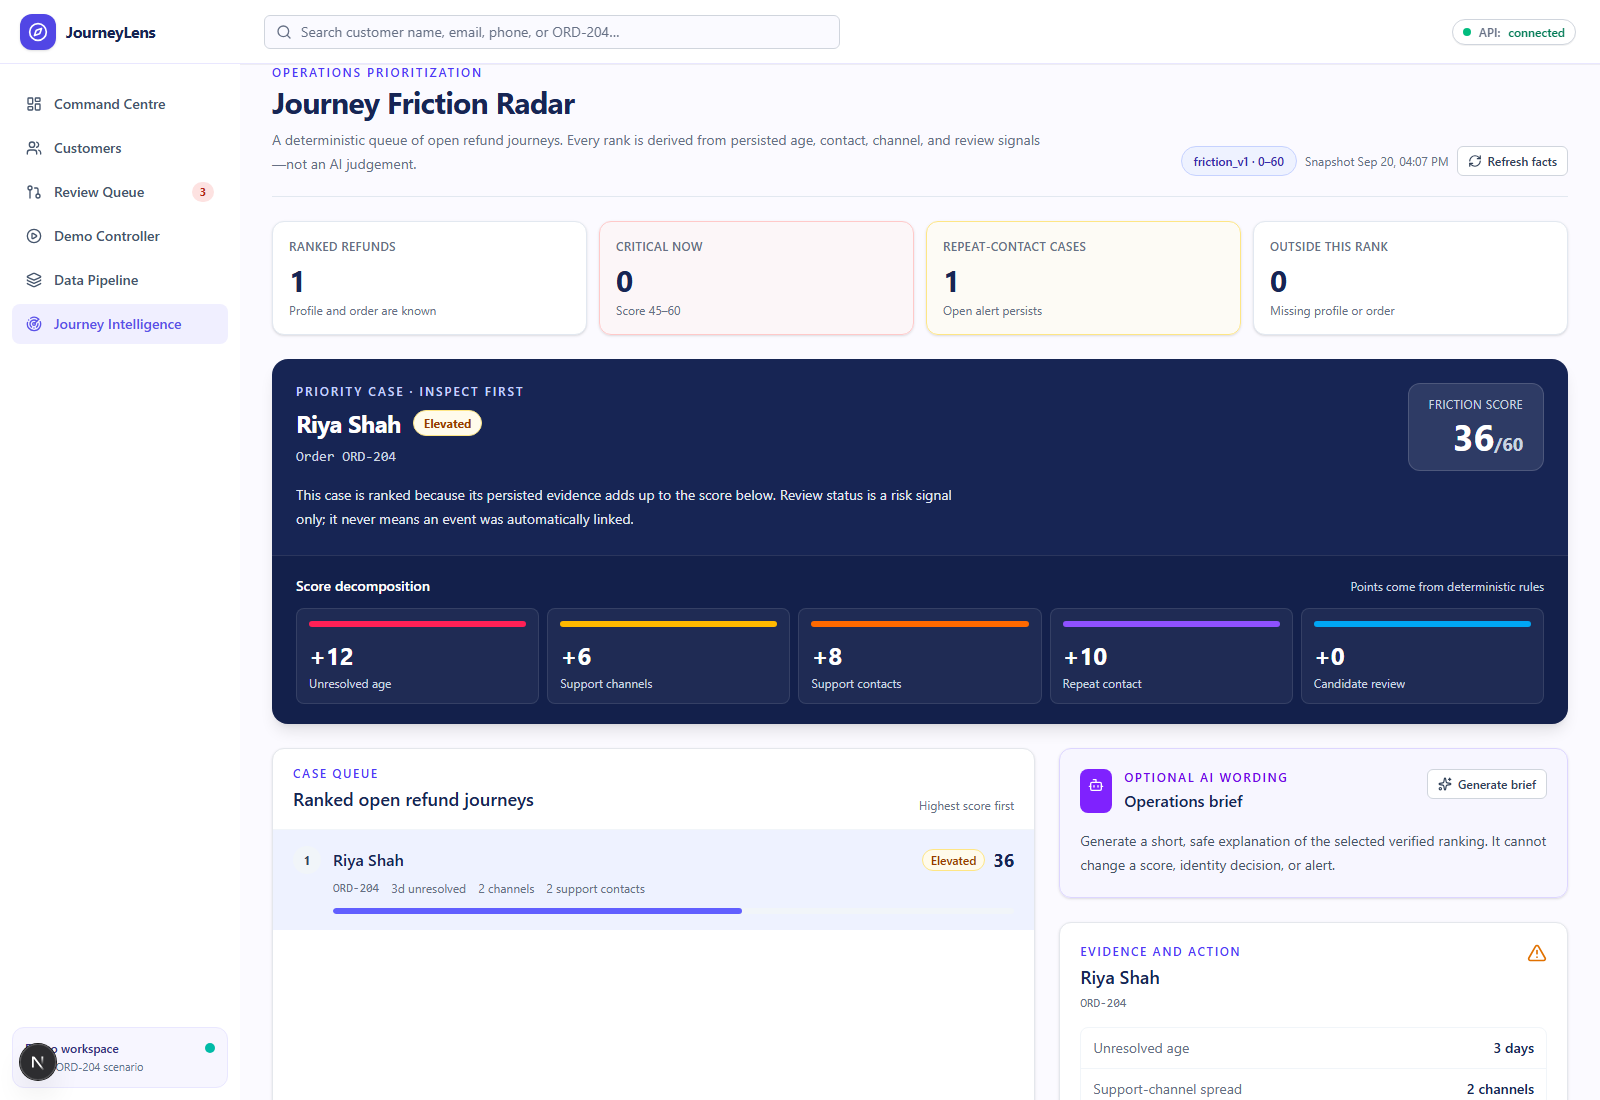
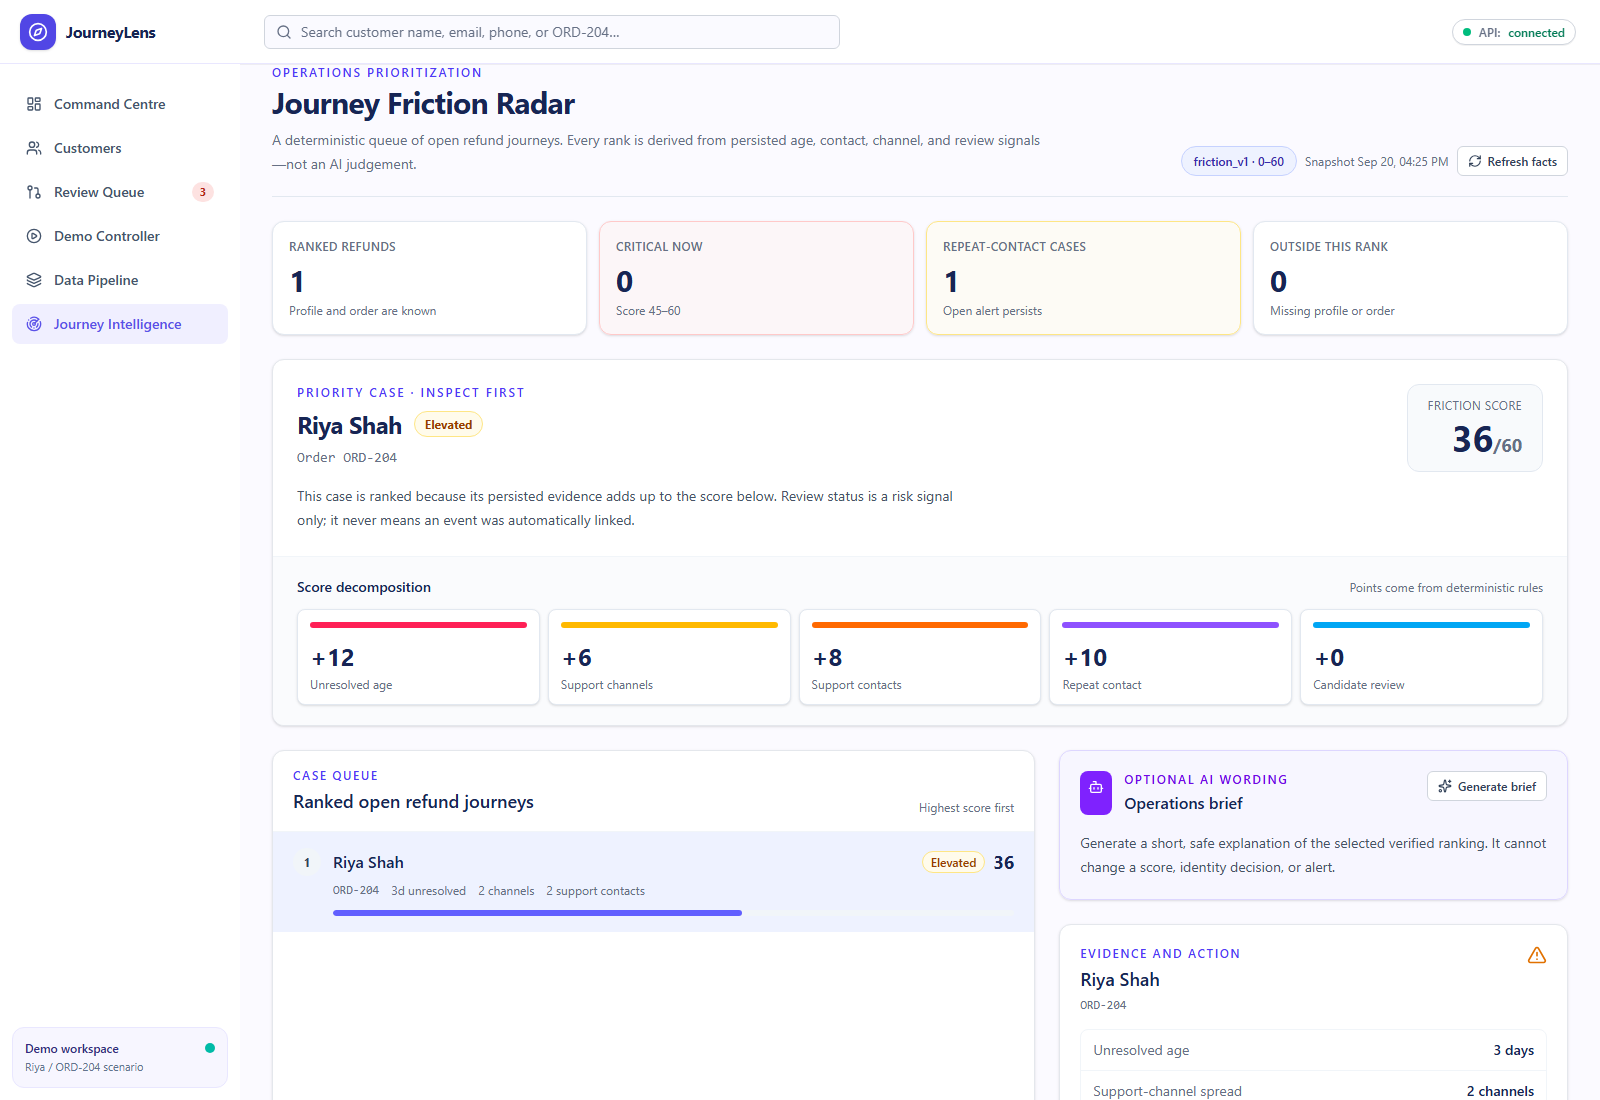
fix(ui): use light priority dossier

diff --git a/frontend/components/journey-intelligence/OperationsDossierView.tsx b/frontend/components/journey-intelligence/OperationsDossierView.tsx
@@ -262,10 +262,13 @@ function Stat({
 
 function PriorityDossier({ journey, scoreMax }: { journey: FrictionJourney; scoreMax: number }) {
   return (
-    <section className="overflow-hidden rounded-2xl bg-[#172554] text-white shadow-lg" aria-label="Priority case dossier">
+    <section
+      className="overflow-hidden rounded-xl border border-[#E4E7EC] bg-white text-[#172554] shadow-sm"
+      aria-label="Priority case dossier"
+    >
       <div className="grid gap-6 px-6 py-6 lg:grid-cols-[1fr_auto] lg:items-start">
         <div>
-          <p className="text-xs font-semibold uppercase tracking-[0.16em] text-indigo-200">
+          <p className="text-xs font-semibold uppercase tracking-[0.16em] text-indigo-600">
             Priority case · inspect first
           </p>
           <div className="mt-2 flex flex-wrap items-center gap-3">
@@ -274,30 +277,30 @@ function PriorityDossier({ journey, scoreMax }: { journey: FrictionJourney; scor
               {journey.band}
             </span>
           </div>
-          <p className="mt-2 font-mono text-sm text-slate-300">Order {journey.order_id}</p>
-          <p className="mt-4 max-w-2xl text-sm leading-6 text-slate-200">
+          <p className="mt-2 font-mono text-sm text-[#667085]">Order {journey.order_id}</p>
+          <p className="mt-4 max-w-2xl text-sm leading-6 text-[#475467]">
             This case is ranked because its persisted evidence adds up to the score below. Review
             status is a risk signal only; it never means an event was automatically linked.
           </p>
         </div>
-        <div className="rounded-xl border border-white/15 bg-white/10 px-5 py-3 text-right">
-          <p className="text-xs uppercase tracking-wide text-slate-300">Friction score</p>
-          <p className="mt-1 text-4xl font-bold tabular-nums">
-            {journey.friction_score}<span className="text-lg text-slate-300">/{scoreMax}</span>
+        <div className="rounded-xl border border-slate-200 bg-slate-50 px-5 py-3 text-right">
+          <p className="text-xs uppercase tracking-wide text-[#667085]">Friction score</p>
+          <p className="mt-1 text-4xl font-bold tabular-nums text-[#172554]">
+            {journey.friction_score}<span className="text-lg text-[#667085]">/{scoreMax}</span>
           </p>
         </div>
       </div>
-      <div className="border-t border-white/10 bg-slate-950/15 px-6 py-5">
+      <div className="border-t border-slate-100 bg-slate-50/70 px-6 py-5">
         <div className="mb-3 flex items-center justify-between gap-3">
           <h3 className="text-sm font-semibold">Score decomposition</h3>
-          <span className="text-xs text-slate-300">Points come from deterministic rules</span>
+          <span className="text-xs text-[#667085]">Points come from deterministic rules</span>
         </div>
         <div className="grid gap-2 sm:grid-cols-5">
           {scoreParts.map(([key, label, color]) => (
-            <div key={key} className="rounded-lg border border-white/10 bg-white/5 p-3">
+            <div key={key} className="rounded-lg border border-slate-200 bg-white p-3 shadow-sm">
               <div className={`h-1.5 rounded-full ${color}`} />
               <p className="mt-3 text-2xl font-bold tabular-nums">+{journey.components[key]}</p>
-              <p className="mt-1 text-xs leading-4 text-slate-300">{label}</p>
+              <p className="mt-1 text-xs leading-4 text-[#667085]">{label}</p>
             </div>
           ))}
         </div>
